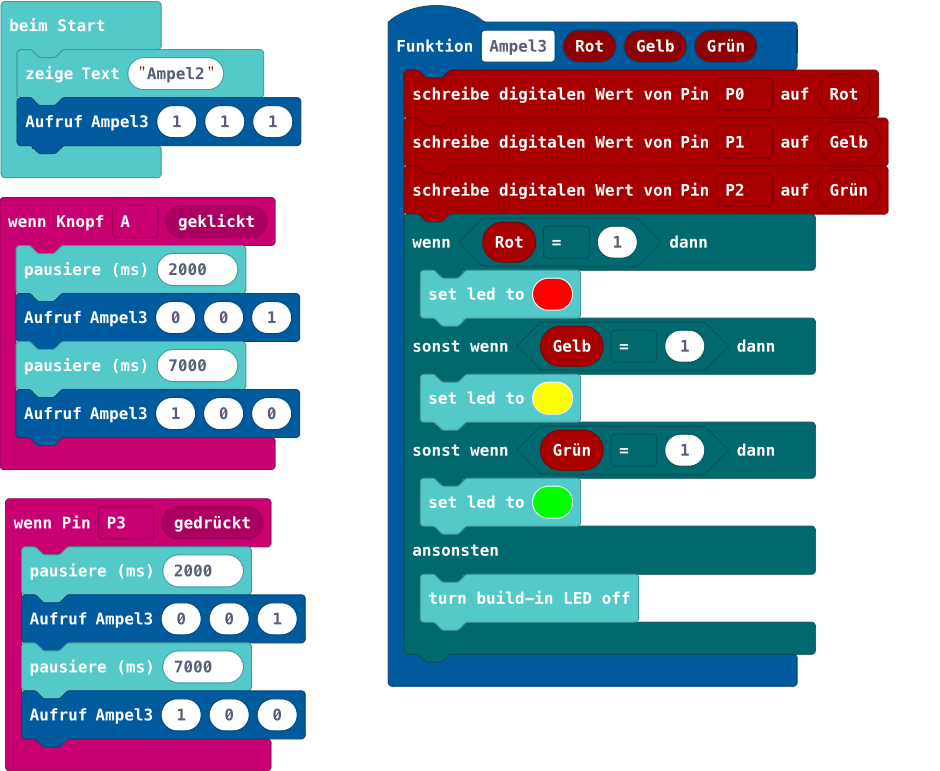
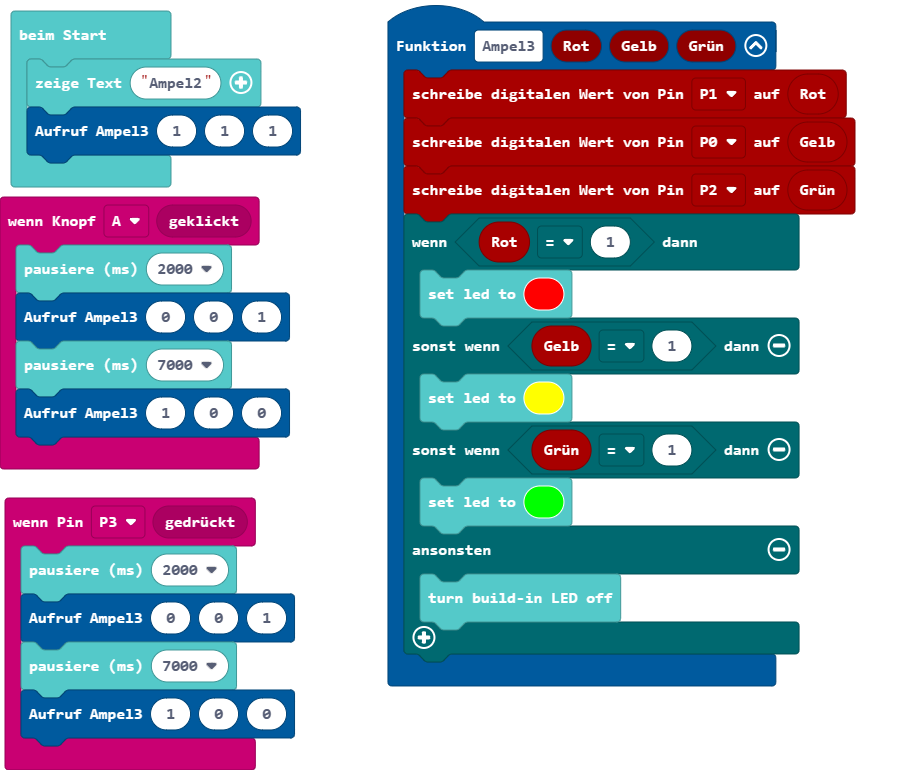
Aktualisiere main.blocks, main.ts

diff --git a/main.ts b/main.ts
@@ -5,8 +5,8 @@ input.onButtonEvent(Button.A, input.buttonEventClick(), function () {
     Ampel3(1, 0, 0)
 })
 function Ampel3 (Rot: number, Gelb: number, Grün: number) {
-    pins.digitalWritePin(DigitalPin.P0, Rot)
-    pins.digitalWritePin(DigitalPin.P1, Gelb)
+    pins.digitalWritePin(DigitalPin.P1, Rot)
+    pins.digitalWritePin(DigitalPin.P0, Gelb)
     pins.digitalWritePin(DigitalPin.P2, Grün)
     if (Rot == 1) {
         basic.setLedColor(0xff0000)
